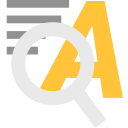
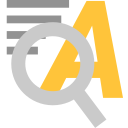
Various updates
Updated icon, changes profile list in options, popup dimensions,
add/remove class method and avoiding jQuery in webpage

Changed region(s): [[0.0938, 0.1562, 0.8438, 1.0]]

diff --git a/popup.js b/popup.js
@@ -5,12 +5,6 @@
  * Javascript for popup
  */
 
-/* Add jQuery methods for js to work */
-function addmethods() {
-	// jQuery from http://jquery.com/
-	chrome.tabs.executeScript(null,{file:"3rdparty/jquery-2.1.4.min.js"});
-}
-
 /* Variables to track active profile and saved state */
 var activep = null;
 var saved = false;
@@ -164,9 +158,9 @@ function makeCSS(pnum) {
 function adoptp(profile) {
 
 	// Remove .alphatextcustomq if needed
-	chrome.tabs.executeScript(null,{code:"$('body').removeClass('alphatextcustomq');"});
+	chrome.tabs.executeScript(null,{code:"document.body.classList.remove('alphatextcustomq');"});
 	// Put in .alphatextcustomp if needed
-	chrome.tabs.executeScript(null,{code:"$('body').addClass('alphatextcustomp');"});
+	chrome.tabs.executeScript(null,{code:"document.body.classList.add('alphatextcustomp');"});
 
 	// Insert CSS profile
 	switch(profile){
@@ -198,7 +192,7 @@ function qsset(e) {
 
 	// Put in .alphatextcustomq if needed
 	chrome.tabs.executeScript(null,
-		{code:"$('body').addClass('alphatextcustomq');"});
+		{code:"document.body.classList.add('alphatextcustomq');"});
 
 	// Get inputs
 	var fsize = document.getElementById("font_size").value;
@@ -228,8 +222,8 @@ function toggle(e) {
 	// Remove all styles
 	chrome.tabs.executeScript(null,
 		{code:
-			"$('body').removeClass('alphatextcustomp');"+
-			"$('body').removeClass('alphatextcustomq');"
+			"document.body.classList.remove('alphatextcustomp');"+
+			"document.body.classList.remove('alphatextcustomq');"
 		});
 	renderstatus('off');
 }
@@ -400,9 +394,6 @@ function loadProfiles() {
 
 /* Load at beginning */
 document.addEventListener('DOMContentLoaded',function() {
-
-	// Add jQuery
-	addmethods();
 
 	// Save current url and domain
 	checkurldomain();

diff --git a/options.js b/options.js
@@ -64,6 +64,8 @@ function loadProfiles() {
 	var storageLen = localStorage.length;
 	var profileId = "";
 	var profv = "";
+	var profarray = ['','',''];
+	var profiletext = "";
 
 	// Generate HTML list
 	for(var keyi = 0; keyi < storageLen; keyi++)
@@ -72,9 +74,15 @@ function loadProfiles() {
 		{
 			profileId = localStorage.key(keyi);
 			profv = localStorage.getItem(localStorage.key(keyi));
-			profileList += "<div class='profs' id='" + profileId + "' value='" + profv + "'><b>Profile " + profileId.substring(11) + "</b>: "
-				+ profv + "  <img id= '" + profileId 
-				+ "_delete' class='delbutton' title='Delete' src='images/delete.png' alt='del'/></div>";
+
+			profvarray = profv.split(" - ");
+			profiletext = '<br/>Font Size: ' + profvarray[0] + '<br/>Font Style: ' + profvarray[1] + '<br/>Line Height: ' + profvarray[2];
+
+			profileList += "<div class='profs' id='" + profileId + "' value='" + profv + "'>"
+				+ "<img id= '" + profileId + "_delete' class='delbutton' title='Delete' src='images/delete.png' alt='del'/>"
+				+ "<b> Profile " + profileId.substring(11) + "</b>: "
+				+ profiletext 
+				+ "</div><br/>";
 		}
 	}
 

diff --git a/css/popupstyle.css b/css/popupstyle.css
@@ -5,16 +5,21 @@
  * Stylesheet for popup
  */
 
+html,body{
+	width:600px;
+	height:250px;
+}
+html{
+	cursor:default;
+}
 body{
 	overflow:hidden;
-	margin:0 auto;
+	margin:0px auto;
 	padding:0px;
 	background:white;
 	text-align:center;
 	font-family:'Roboto',Helvetica,Arial,sans-serif;
 	font-size:110%;
-	width:600px;
-	height:200px;
 }
 
 /* Texts */
